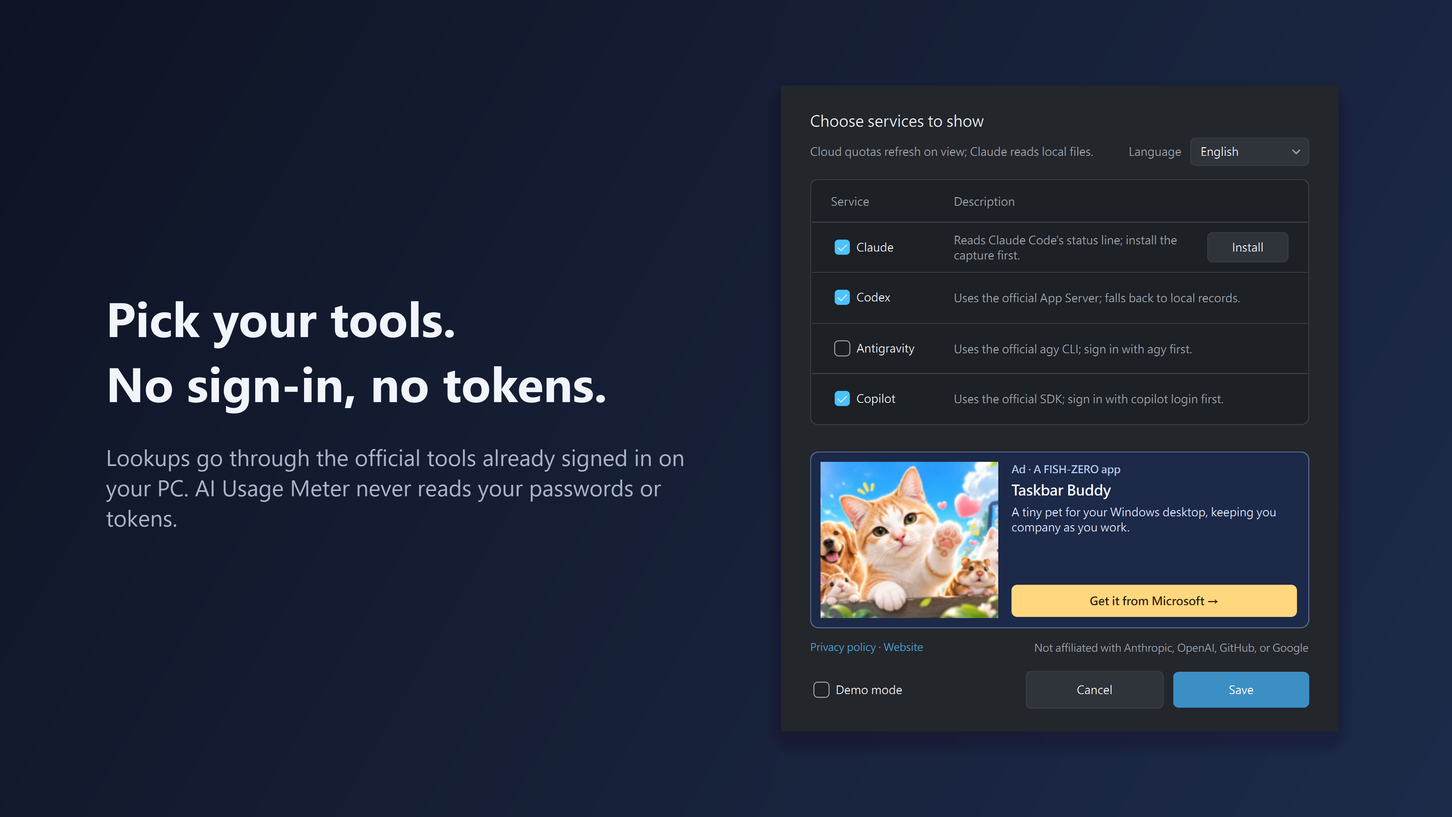
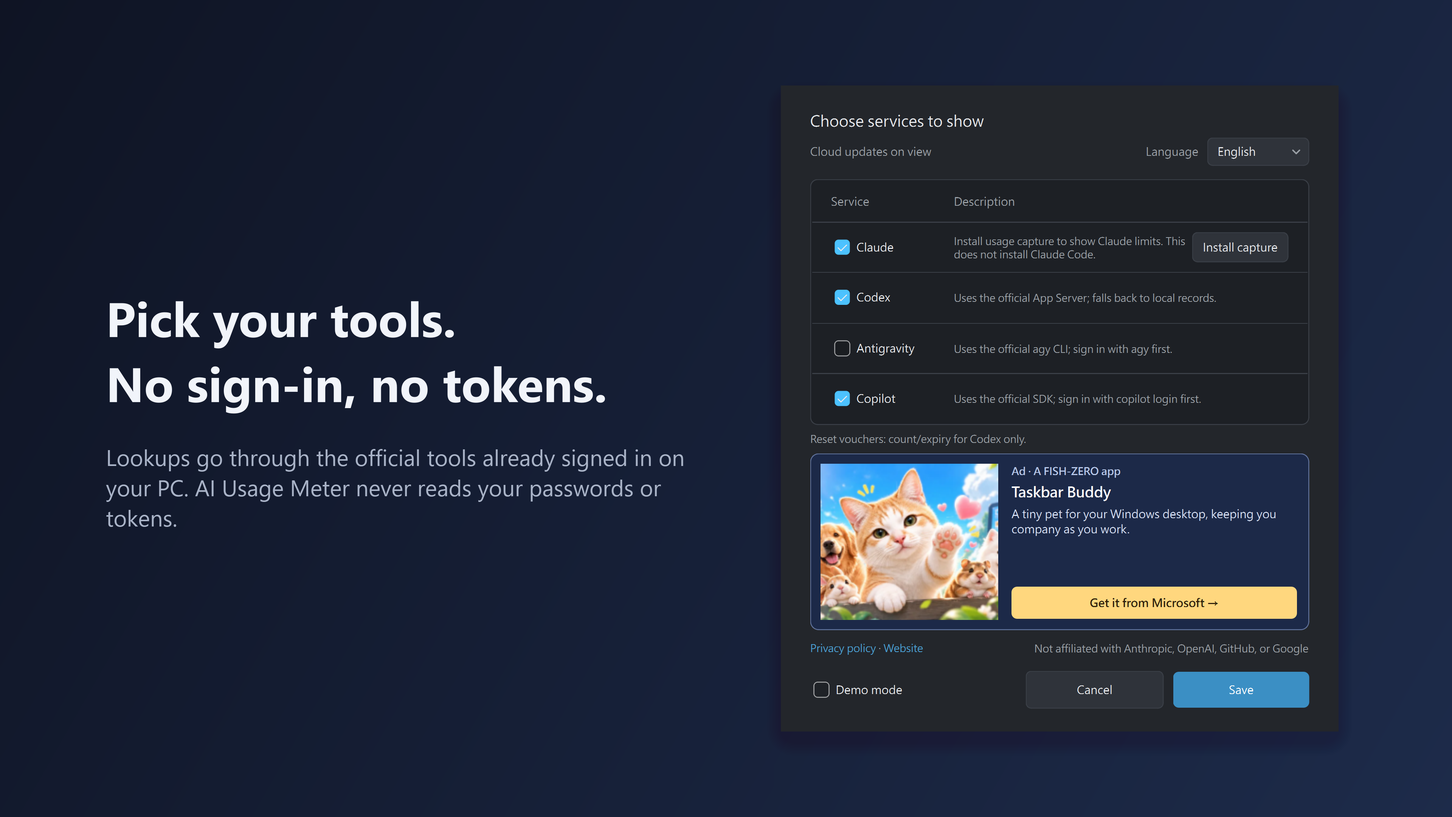
文件：0.1.2 五語商店清單、截圖與 Submission 3 狀態

diff --git a/docs/store-listing-0.1.2.md b/docs/store-listing-0.1.2.md
@@ -1,0 +1,250 @@
+# AI Usage Meter 0.1.2.0 商店清單文案
+
+供 Microsoft Partner Center 更新提交使用。套件 `AiUsageMeter-0.1.2.0-x64.msix` 宣告 `zh-TW`、`en`、`ja`、`de`、`zh-CN`。各語言產品名稱都選 **AI Usage Meter**，簡短標題留白。說明欄請貼純文字，不貼本檔的 Markdown 標題或項目符號。產品功能在 Partner Center 逐條新增，不要輸入序號。著作權各語言均填 `© 2026 Fish-Zero`。
+
+Microsoft 的 MSIX 清單規則：說明必填、至少一張截圖；「此版本的新增功能」最多 1,500 字元；產品功能最多 20 條、每條最多 200 字元；簡短描述最多 1,000 字元，建議前 270 字元內講完。各套件語言可分別建立清單，也可匯出／匯入 CSV。參考：[Microsoft Learn：編輯 MSIX 商店清單](https://learn.microsoft.com/en-us/windows/apps/publish/publish-your-app/msix/add-and-edit-store-listing-info)。
+
+五種語言各有 3 張桌面截圖，在 `docs/store/shots/<語言>-1.png` 到 `-3.png`；第 3 張可看到新版設定。商店圖示在 `docs/store/logo-300.png`。截圖由 `packaging/store_shots.py` 使用真正的卡片與設定元件、示範資料產生。隱私權政策仍使用產品屬性中的 `https://fish-zero.com/aiusagemeter-privacy`。審核人員測試說明沿用 [store-listing.md](store-listing.md) 第 6 節；其中已列出五種語言。
+
+## English (en)
+
+**Short description**
+
+See your AI coding tools' remaining usage from the Windows system tray. Hover for each limit's reset time and, for Codex, available reset credits and the nearest known expiry. No separate account or sign-in tokens needed.
+
+**Description**
+
+AI Usage Meter keeps the usage limits of your AI coding tools one hover away. Hover over its Windows system tray icon to see the percentage left, a progress bar, and the time until each limit resets.
+
+Supported tools: Claude Code, Codex, Antigravity CLI, and GitHub Copilot. Claude Code and Codex are enabled by default. Install and sign in to each tool you want to track on the same PC.
+
+If Codex provides reset-credit details, the card shows how many credits are available and the nearest known expiration date. Reset-credit details currently work with Codex only.
+
+When a limit falls below 10%, the app sends one Windows notification per reset period. Old or unavailable numbers are shown in grey with their age. The tray icon's neon ring slowly rotates and pauses when the screen is locked or off, battery saver is on, or Windows animations are disabled. The app also tells you when a new version is available in the Microsoft Store.
+
+AI Usage Meter does not read or store passwords or sign-in tokens. It has no server of its own, analytics, or third-party ads. In the background it reads local usage records; when you open the card, it asks the official tools already signed in on your PC for updated numbers. The Settings window contains a small banner for another app from the same developer.
+
+Settings offers Traditional Chinese, English, Japanese, German, and Simplified Chinese. The Claude Code “Install capture” and “Remove capture” buttons manage usage capture; they do not install or remove Claude Code. The developer's promoted app supports English and Traditional Chinese, so its banner appears in English in the other interface languages.
+
+On Windows 11, the tray icon may initially be under the hidden icons arrow (^). Drag it onto the taskbar for quick access.
+
+AI Usage Meter is an independent app and is not affiliated with Anthropic, OpenAI, GitHub, or Google. Product names belong to their respective owners.
+
+**What's new in this version**
+
+- Added Japanese, German, and Simplified Chinese interface options, alongside Traditional Chinese and English.
+- The Codex card now shows available reset credits and the nearest known expiry when Codex provides them. Reset-credit details currently support Codex only.
+- Settings now makes clear that Claude's install and remove buttons manage usage capture, not Claude Code itself.
+- The developer's app banner appears in English when its app does not support the selected interface language.
+
+**Product features**
+
+1. Hover over the system tray icon to see usage limits at a glance
+2. Percentage left, progress bar, and reset countdown for each limit
+3. Supports Claude Code, Codex, Antigravity CLI, and GitHub Copilot
+4. Shows Codex reset-credit count and nearest known expiry
+5. Never reads or stores passwords or sign-in tokens
+6. Uses each tool's official interface and your existing sign-in
+7. One alert below 10% per reset period
+8. Grey, time-stamped sections for old or unavailable numbers
+9. No server, analytics, third-party ads, or separate account
+10. Animated tray ring that pauses when the screen is locked or off
+11. Notification when a Microsoft Store update is available
+12. Traditional Chinese, English, Japanese, German, and Simplified Chinese interface
+
+**Search terms**: `AI usage` / `usage limit` / `rate limit` / `AI quota` / `system tray` / `developer tools` / `coding assistant`
+
+## 繁體中文 (zh-TW)
+
+**簡短描述**
+
+在 Windows 系統匣查看 AI 程式開發工具的剩餘用量與重置時間。滑鼠移到圖示上，還能查看 Codex 重置券的可用張數與最近已知的到期日。不需另建帳號，也不讀取登入權杖。
+
+**說明**
+
+AI Usage Meter 讓 AI 程式開發工具的用量，滑鼠移過去就看得到。將滑鼠移到 Windows 系統匣圖示上，每項額度的剩餘百分比、進度條與下次重置倒數會顯示在同一張卡片上。
+
+支援 Claude Code、Codex、Antigravity CLI 和 GitHub Copilot。預設啟用 Claude Code 與 Codex；你需要先在同一台電腦安裝並登入想追蹤的工具。
+
+如果 Codex 提供重置券資料，卡片會顯示可用張數與最近已知的到期日。重置券資訊目前僅支援 Codex。
+
+額度剩不到 10% 時，每個重置週期只會收到一次 Windows 通知。過時或無法取得的數字會變灰並標示資料時間。系統匣圖示的霓虹外圈會慢慢旋轉，鎖定畫面、螢幕關閉、省電模式或關閉 Windows 動畫效果時會自動停下。Microsoft Store 有新版本時，App 也會提醒你。
+
+AI Usage Meter 不讀取、不保存密碼或登入權杖，沒有自己的伺服器、分析追蹤或第三方廣告。平常在背景只讀本機用量紀錄；打開卡片時才請已登入的官方工具查詢較新的數字。設定視窗底部有一個推廣同一位開發者另一款 App 的小橫幅。
+
+介面提供繁體中文、英文、日文、德文與簡體中文。Claude Code 的「安裝擷取」與「移除擷取」只管理用量擷取，不會安裝或移除 Claude Code。被推廣的 App 目前只支援英文與繁體中文，因此選擇其他介面語言時，該橫幅會顯示英文。
+
+Windows 11 可能先把新圖示放在隱藏圖示區（^）。將圖示拖到工作列，就能隨時查看。
+
+AI Usage Meter 是獨立開發的 App，與 Anthropic、OpenAI、GitHub、Google 沒有隸屬或合作關係。各產品名稱屬於其權利人。
+
+**此版本的新增功能**
+
+- 新增日文、德文與簡體中文介面，並保留繁體中文與英文。
+- Codex 卡片新增重置券可用張數，以及有提供時最近已知的到期日；目前僅支援 Codex。
+- 設定中說明 Claude 的安裝／移除按鈕管理的是用量擷取，不會安裝或移除 Claude Code。
+- 被推廣的 App 不支援所選介面語言時，推廣橫幅顯示英文。
+
+**產品功能**
+
+1. 滑鼠移到系統匣圖示上，所有額度一次看完
+2. 每項額度都有剩餘百分比、進度條與重置倒數
+3. 支援 Claude Code、Codex、Antigravity CLI、GitHub Copilot
+4. 顯示 Codex 重置券張數與最近已知的到期日
+5. 不讀取、不保存密碼或登入權杖
+6. 使用各工具的官方介面與原本的登入查詢
+7. 額度剩不到 10% 時，每個重置週期提醒一次
+8. 過時或無法取得的資料會變灰並標示時間
+9. 沒有伺服器、分析追蹤、第三方廣告或額外帳號
+10. 系統匣動畫在鎖定畫面或螢幕關閉時自動停下
+11. Microsoft Store 有新版時通知你
+12. 繁體中文、英文、日文、德文與簡體中文介面
+
+**搜尋字詞**：`AI 用量`／`用量限制`／`額度`／`系統匣`／`開發人員工具`／`AI usage`／`usage limit`
+
+## 日本語 (ja)
+
+**短い説明**
+
+Windows の通知領域から AI コーディングツールの利用枠を確認。残量、リセットまでの時間、Codex のリセットクレジット枚数と直近の有効期限を表示します。
+
+**説明**
+
+AI Usage Meter は、AI コーディングツールの利用枠を Windows の通知領域で確認できるアプリです。アイコンにマウスを合わせると、各利用枠の残量、進捗バー、次のリセットまでの時間が表示されます。
+
+対応ツールは Claude Code、Codex、Antigravity CLI、GitHub Copilot です。Claude Code と Codex は初期状態で有効です。利用するツールは同じ PC にインストールしてサインインしてください。
+
+Codex のリセットクレジットが取得できる場合は、利用可能な枚数と、確認できた中で最も近い有効期限も表示します。この表示は現在 Codex のみに対応しています。
+
+残量が 10% 未満になると、リセット期間ごとに 1 回だけ Windows 通知を送ります。取得に失敗した情報や古い情報は、更新からの経過時間とともに灰色で示します。
+
+パスワードやサインイントークンの読み取り・保存は行いません。アプリ独自のサーバー、アクセス解析、サードパーティー広告はありません。バックグラウンドではローカルの利用記録を参照し、カードを開いたときに、サインイン済みの公式ツールへ新しい情報を問い合わせます。
+
+設定画面の Claude Code の「取得を導入／取得を削除」は、利用情報を保存するステータスライン連携を設定・解除する操作です。Claude Code 本体をインストールまたはアンインストールする操作ではありません。
+
+表示言語は繁体字中国語、英語、日本語、ドイツ語、簡体字中国語に対応しています。設定画面には、開発者の別アプリを紹介する小さなバナーがあります。紹介先のアプリが日本語に対応していないため、バナーは英語で表示されます。
+
+Windows 11 では、通知領域のアイコンが最初は隠しアイコン（^）に入ることがあります。
+
+AI Usage Meter は独立したアプリで、Anthropic、OpenAI、GitHub、Google と提携していません。
+
+**このバージョンの新機能**
+
+- 日本語、ドイツ語、簡体字中国語の UI を追加しました。表示言語は設定から選択できます。
+- Codex のリセットクレジットの利用可能枚数と、確認できた中で最も近い有効期限を通知領域のカードに表示します。現在は Codex のみに対応しています。
+- Claude Code のボタンが取得機能の設定を指すことを明確にしました。
+- 開発者の別アプリを紹介するバナーは、日本語表示時には英語で表示します。
+
+**製品の特長**
+
+1. 通知領域のアイコンにマウスを合わせて、利用枠をまとめて確認
+2. 利用枠ごとの残量、進捗バー、リセットまでの時間を表示
+3. Claude Code、Codex、Antigravity CLI、GitHub Copilot に対応
+4. Codex のリセットクレジット枚数と直近の有効期限を表示
+5. 残量が 10% 未満になると、リセット期間ごとに 1 回通知
+6. 古い情報や取得できない情報は、経過時間とともに灰色で表示
+7. パスワードやサインイントークンを読み取り・保存しない
+8. 独自サーバー、アクセス解析、別途のアカウント登録なし
+9. 画面のロック時や省電力時に停止する通知領域アイコンのアニメーション
+10. Microsoft Store の更新が利用可能になると通知
+11. Windows の起動時に自動起動（任意）
+12. 繁体字中国語、英語、日本語、ドイツ語、簡体字中国語の UI
+
+**検索語**：`AI 使用量`／`利用制限`／`AI クォータ`／`通知領域`／`開発ツール`／`コーディング支援`／`使用量管理`
+
+## Deutsch (de)
+
+**Kurzbeschreibung**
+
+Behalte die Nutzungslimits deiner KI-Codingtools direkt im Windows-Infobereich im Blick. Beim Zeigen auf das Symbol siehst du Restkontingent, Rücksetzzeit und verfügbare Codex-Rücksetzgutschriften. Ohne eigenes Konto oder Analyse-Tracking.
+
+**Beschreibung**
+
+AI Usage Meter zeigt dir die Nutzungslimits deiner KI-Codingtools im Windows-Infobereich. Zeige auf das Symbol, um für jedes Limit das verbleibende Kontingent, einen Fortschrittsbalken und die Zeit bis zur Rücksetzung zu sehen.
+
+Unterstützte Tools: Claude Code, Codex, Antigravity CLI und GitHub Copilot. Claude Code und Codex sind standardmäßig aktiviert; die anderen Tools kannst du in den Einstellungen einschalten. Die jeweiligen Tools müssen auf deinem PC installiert und angemeldet sein.
+
+Wenn Codex diese Angaben bereitstellt, zeigt die Infokarte, wie viele Rücksetzgutschriften verfügbar sind und wann die nächste bekannte Gutschrift abläuft. Diese Anzeige wird derzeit nur für Codex unterstützt.
+
+Fällt ein Limit unter 10 %, erhältst du pro Rücksetzzeitraum eine Windows-Benachrichtigung. Veraltete oder nicht verfügbare Werte sind entsprechend gekennzeichnet. Der Leuchtring des Symbols pausiert, wenn der Bildschirm gesperrt oder ausgeschaltet ist, beim Energiesparen oder wenn Windows-Animationen deaktiviert sind. Die App informiert dich auch, wenn im Microsoft Store eine neue Version verfügbar ist.
+
+Die App liest und speichert keine Passwörter oder Anmeldetoken. Sie nutzt vorhandene lokale Nutzungsdaten und fragt beim Öffnen der Infokarte die bereits angemeldeten offiziellen Tools ab. Sie hat keinen eigenen Server, kein Analyse-Tracking und keine Anzeigen von Drittanbietern. In den Einstellungen erscheint lediglich ein Hinweis auf eine weitere App desselben Entwicklers.
+
+Wähle zwischen Deutsch, Japanisch, vereinfachtem Chinesisch, traditionellem Chinesisch und Englisch. Die Claude-Schaltflächen installieren bzw. entfernen nur die Erfassung der Nutzungsdaten, nicht Claude Code selbst. Der Hinweis auf die andere App ist auf Deutsch, Japanisch und vereinfachtem Chinesisch auf Englisch verfügbar.
+
+Unter Windows 11 erscheint ein neues Symbol möglicherweise zunächst im ausgeblendeten Bereich (^). Ziehe es auf die Taskleiste, um die Infokarte schnell zu öffnen.
+
+AI Usage Meter ist eine unabhängige App und steht in keiner Verbindung zu Anthropic, OpenAI, GitHub oder Google. Die Produktnamen gehören ihren jeweiligen Inhabern.
+
+**Neu in Version 0.1.2.0**
+
+- Codex: Verfügbare Rücksetzgutschriften und der nächste bekannte Ablauf erscheinen jetzt direkt in der Infokarte.
+- Neue Oberflächensprachen: Deutsch, Japanisch und vereinfachtes Chinesisch. Englisch und traditionelles Chinesisch bleiben verfügbar.
+- Die Claude-Schaltflächen erklären nun deutlicher, dass sie die Erfassung der Nutzungsdaten installieren oder entfernen.
+- Die Einstellungen weisen darauf hin, dass Rücksetzgutschriften derzeit nur für Codex angezeigt werden.
+- Der Hinweis auf eine weitere App desselben Entwicklers erscheint in den neuen Sprachen auf Englisch.
+
+**Produktmerkmale**
+
+1. Alle Nutzungslimits beim Zeigen auf das Symbol im Windows-Infobereich sehen
+2. Restkontingent, Fortschrittsbalken und Countdown bis zur Rücksetzung
+3. Unterstützt Claude Code, Codex, Antigravity CLI und GitHub Copilot
+4. Anzahl verfügbarer Codex-Rücksetzgutschriften und nächster bekannter Ablauf
+5. Benachrichtigung bei weniger als 10 % Restkontingent
+6. Veraltete Werte werden mit Zeitangabe gekennzeichnet
+7. Liest und speichert keine Passwörter oder Anmeldetoken
+8. Kein eigener Server, kein Analyse-Tracking und kein zusätzliches Konto
+9. Animierter Leuchtring, der bei gesperrtem Bildschirm oder Energiesparen pausiert
+10. Benachrichtigt dich über neue Versionen im Microsoft Store
+11. Optionaler Start mit Windows
+12. Oberfläche auf Deutsch, Englisch, Japanisch sowie traditionellem und vereinfachtem Chinesisch
+
+**Suchbegriffe**: `KI-Nutzung` / `Nutzungslimit` / `KI-Kontingent` / `Ratenlimit` / `Infobereich` / `Entwicklerwerkzeuge` / `Programmierassistent`
+
+## 简体中文 (zh-CN)
+
+**简短说明**
+
+在 Windows 系统托盘查看 AI 编程工具的剩余用量与重置时间。Codex 重置券可显示剩余张数及最近已知的到期日。无需另建账号，不读取或保存登录令牌。
+
+**完整说明**
+
+AI Usage Meter 让 AI 编程工具的用量限制始终近在眼前。将鼠标悬停在 Windows 系统托盘图标上，即可查看各项额度的剩余百分比、进度条和重置倒计时。
+
+支持 Claude Code、Codex、Antigravity CLI 和 GitHub Copilot。Claude Code 与 Codex 默认启用，其他工具可在设置中开启。相应工具需已安装并在这台电脑上登录。
+
+如果 Codex 提供重置券数据，卡片还会显示可用张数及最近已知的到期日。重置券详情目前仅支持 Codex。
+
+某项额度低于 10% 时，每个重置周期只提醒一次。查询失败或数据过期时，相应区块会变灰，并显示数据时间。托盘图标的光环会缓慢旋转；锁屏、关闭屏幕、启用节电模式或关闭 Windows 动画效果时会暂停。发现 Microsoft Store 新版本时，应用也会通知你。
+
+应用不会读取或保存密码、登录令牌。后台读取本地用量记录，打开用量卡片时才调用本机已登录工具的官方接口查询新数据。应用没有自有服务器、分析追踪、第三方广告或专用账号，不会把数据发送给开发者。设置页面底部有一个推广同一开发者其他应用的小横幅。
+
+提供繁体中文、英语、日语、德语和简体中文界面。Claude 设置中的“安装采集／移除采集”仅管理用量采集，并非安装或卸载 Claude Code。被推广的应用目前仅支持英语和繁体中文，因此在其他界面语言下，横幅显示英文。
+
+Windows 11 可能将新托盘图标放在隐藏图标区域（^）。可将图标拖到任务栏，随时悬停查看。
+
+AI Usage Meter 是独立应用，与 Anthropic、OpenAI、GitHub 或 Google 没有关联。相关产品名称归各自所有者所有。
+
+**此版本的新内容**
+
+- 新增日语、德语及简体中文界面；设置中可从五种语言直接选择。
+- Codex 用量卡片新增重置券可用张数与最近已知的到期日；目前仅支持 Codex。
+- 设置页面说明 Claude 的“安装采集／移除采集”按钮仅管理用量采集，并非安装或卸载 Claude Code。
+- 开发者其他应用的横幅在不支持所选语言时显示英文。
+
+**产品功能**
+
+1. 悬停系统托盘图标，即可查看各项用量限制
+2. 显示剩余百分比、进度条与重置倒计时
+3. 查看 Codex 重置券张数和最近已知的到期日
+4. 支持 Claude Code、Codex、Antigravity CLI 和 GitHub Copilot
+5. 不读取或保存密码及登录令牌
+6. 使用本机现有登录状态和工具官方接口
+7. 额度低于 10% 时，每个重置周期提醒一次
+8. 过期数据变灰，并标明数据时间
+9. 无自有服务器、分析追踪、第三方广告或专用账号
+10. 托盘光环会在锁屏、息屏或节电时暂停动画
+11. 新版本上架后通知，并可前往 Microsoft Store
+12. 支持繁中、英语、日语、德语及简体中文界面
+
+**搜索词**：`AI 用量`／`用量限制`／`速率限制`／`AI 额度`／`系统托盘`／`开发工具`／`编程助手`

diff --git a/CLAUDE.md b/CLAUDE.md
@@ -45,7 +45,7 @@ powershell -ExecutionPolicy Bypass -File packaging\build.ps1  # 打包 → dist\
 - 狀態值比 §2 多一個 `disabled`（歷史相容狀態）。`ProviderState` 另有 `source` / `error` / `raw`（raw 只給 probe）。
 - 檔案來源規則（`model.apply_file_freshness`）：`resets_at` 已過的視窗 → `used_pct=0`、`resets_at=None`、記進 `detail.rolled_over`；資料 > 15 分鐘或有歸零 → `stale`。
 - **P5（2026-09-25）加 Antigravity CLI、GitHub Copilot**，預設不啟用（細節見 §3）。Copilot 透過官方 Python SDK 的 `account.getQuota`，使用 Copilot CLI 登入；Antigravity 執行官方 `agy -p /usage --output-format json`，由 agy 自己處理登入。額度不是固定長度的視窗 → Copilot 用 `make_window(label=...)`；Antigravity 依 agy 的群組顯示。卡片：Copilot unlimited 顯示「無上限：…」；全部沒勾選時顯示「沒有啟用任何服務…」；Antigravity 未登入提示先用 agy 登入。
-- **介面中／英切換（2026-09-25，業主要求）**：`i18n.py` 集中所有畫面文字（`STRINGS = {key: (繁中, English)}`、`tr(key)`）。設定視窗左下角「語言」下拉：跟隨系統／繁體中文／English，存 `config.json` 的 `language`（`auto`／`zh-TW`／`en`，預設 auto：Windows 介面語言是中文 → 繁中，其他 → English）。在下拉切換會**整個設定視窗立刻換語言預覽**（`tr(key, lang)`，不動全域），按儲存才套用到選單、卡片、通知、tooltip；只換語言不重抓。⚠ **視窗 label 在資料裡一律維持中文**（週／月／進階／補全…），只在顯示時 `i18n.window_label` 翻——通知去重鍵含 label，切語言不能讓同一週期再通知一次。provider 的錯誤細節（`state.error`）是除錯用、不翻。`i18n` 模組預設繁中、只有 `run()` 依設定切換，所以既有測試不受本機語言影響；改英文的測試要 `addCleanup(i18n.set_language, "zh-TW")`。QMessageBox 的是／否按鈕字自己給（打包版刪了 Qt 翻譯檔）。卡片進度條改成 60–110px 可縮（英文 “Completions” 會把第一欄撐寬，原本固定 110 會讓 % 壓到條上）。
+- **介面中／英切換（2026-09-25，業主要求）**：`i18n.py` 集中所有畫面文字（`STRINGS = {key: (繁中, English)}`、`tr(key)`）。設定視窗左下角「語言」下拉，存 `config.json` 的 `language`（0.1.2 起五種語言、沒有「跟隨系統」，舊的 `auto` 讀取時依系統語言轉換，見下方 0.1.2）。在下拉切換會**整個設定視窗立刻換語言預覽**（`tr(key, lang)`，不動全域），按儲存才套用到選單、卡片、通知、tooltip；只換語言不重抓。⚠ **視窗 label 在資料裡一律維持中文**（週／月／進階／補全…），只在顯示時 `i18n.window_label` 翻——通知去重鍵含 label，切語言不能讓同一週期再通知一次。provider 的錯誤細節（`state.error`）是除錯用、不翻。`i18n` 模組預設繁中、只有 `run()` 依設定切換，所以既有測試不受本機語言影響；改英文的測試要 `addCleanup(i18n.set_language, "zh-TW")`。QMessageBox 的是／否按鈕字自己給（打包版刪了 Qt 翻譯檔）。卡片進度條改成 60–110px 可縮（英文 “Completions” 會把第一欄撐寬，原本固定 110 會讓 % 壓到條上）。
 
 - **Claude 狀態列擷取安裝器（2026-09-26，`claude_hook.py`）**：Claude 的資料原本只靠業主自己寫的 Node hook（`D:\FISH\tools\claude-monitor\statusline-usage.js`），一般使用者沒有 → Store 版 Claude 會永遠沒資料。設定視窗 Claude 那列加「安裝／移除」按鈕，**按下立刻執行、先跳確認**（改的是 Claude Code 的 `~/.claude/settings.json`，不是我們的設定）。做法：
   - hook 是 PowerShell 腳本 `~/.claude/ai-quota-tray/statusline.ps1`（不用 Node：官方安裝程式裝的 Claude Code 不一定有 Node），把 stdin 的 `rate_limits` 存成 `~/.claude/usage-cache.json`（跟 Node 版同格式），再**照常執行使用者原本的狀態列**、印出它的輸出。原本的 statusLine 存在 `original-statusline.json`（移除時原樣還原，padding／refreshInterval 等欄位保留），指令本身另存 `original.sh`／`original.ps1`：環境有 `MSYSTEM`（Claude Code 經 Git Bash 呼叫）就用 bash 跑 .sh，否則用 PowerShell 跑 .ps1——跟官方文件「有 Git Bash 用 Git Bash，沒有用 PowerShell」一致。
@@ -77,9 +77,16 @@ powershell -ExecutionPolicy Bypass -File packaging\build.ps1  # 打包 → dist\
 - `tests/test_anim_update.py`（畫格只動外圈、停轉條件、Store 檢查、通知只一次且點了開設定、設定新元件）；unittest 156 過。
 - 下一版：**xAI（Grok）** 看回信（見下方 📨）。
 
+### 0.1.2（2026-09-27，Codex 做、Claude 接手收尾）
+
+- **五種介面語言**：繁中、English、日本語、Deutsch、简体中文。翻譯在 `ai_quota_tray/locales/{ja,de,zh_cn}.py`（`i18n.TRANSLATIONS`），`STRINGS` 仍是 (繁中, English) 兩欄。⚠ **語言下拉拿掉了「跟隨系統」**：舊設定的 `auto` 在讀取時（`config.load_language`／`i18n.resolve`）依 Windows 介面語言轉成五種之一（zh-CN／SG／Hans → 簡中、其他 zh → 繁中、ja、de，其餘 → English）。視窗 label 翻譯改成 `i18n.WINDOW_LABELS[lang]`。
+- **Codex 重置券**：`codex app-server` 回傳的 `rateLimitResetCredits`（`availableCount`、`credits[].expiresAt`／`status`）→ `detail.reset_credits_count`／`reset_credits_next_expiry`（只取 available 且未過期的最早一張），卡片 Codex 區塊多兩行；設定視窗註明「目前僅支援 Codex」。背景讀本機 rollout 沒有這兩個欄位，`TrayApp._on_fetched_local` 會把手上的券資訊帶過去，不讓它消失。
+- Claude 按鈕改成「安裝擷取／移除擷取」並說明不會裝／移除 Claude Code。自家推廣橫幅只有中英文，其他語言顯示英文。隱私權政策補重置券（fish-zero-web `5c817c0`，已 push、線上看得到）。
+- MSIX 宣告五種 `Resource Language`（`pack_msix.py` 的 `PKG_STRINGS` 補 ja／de／zh-CN），`store_shots.py` 五語各 3 張。商店五語文案在 `docs/store-listing-0.1.2.md`。unittest 165 過。⚠ 0.1.2.0 **沒有跑 WACK**（最後一次是 0.1.1.0）。
+
 **下次開工：MSIX 上線版**（業主 2026-09-25 收工時說下次再處理；細節見 §5）
 
-> ⏸ **2026-09-26 的狀態**：v0.1.0.0 已上架（Submission 1，不到一小時就過）。0.1.1.0 已送 **Submission 2** 認證（業主 2026-09-26 送出；套件 `AiUsageMeter-0.1.1.0-x64.msix`、WACK PASS 16:02，明細 `docs/store-listing.md` §0.6），程式與文件已 push。下一步：等認證結果（退件就照原因修）；上架後同事可以裝。下一版：xAI（Grok）看回信。
+> ⏸ **2026-09-27 的狀態**：0.1.1.0（Submission 2）已上架。0.1.2.0 的 **Submission 3** 在 Partner Center 已全部填好：套件 `AiUsageMeter-0.1.2.0-x64.msix` Validated、五語清單都 Complete（各 3 張截圖＋300×300 標誌；英文與繁中的第 3 張換成新版設定畫面）、「其他測試資訊」的認證注意事項改成五語版。只差業主按「提交以進行認證」。💡 Partner Center 清單頁的截圖本身就是「更新圖片」按鈕、旁邊有自己的 file input，替換單張可以原位上傳、不用刪掉重排。下一版：xAI（Grok）看回信。
 
 > 📨 **xAI（Grok）詢問中**：業主 2026-09-26 12:44 寄信給 `sales@x.ai`，問第三方 App 能不能讀 Grok Build CLI 的本機 token、呼叫 `cli-chat-proxy.grok.com/v1/billing` 等端點來顯示使用者自己的用量，或有沒有官方介面可用。業主決定：**回覆 OK 才在下一版加回來**。⚠ 信裡附的 `blob/main/.../providers/grok.py` 已經 404（P5 `236e126` 刪掉了）；對方要看程式碼時改給固定版本 `https://github.com/Fishforgithub/ai-quota-tray/blob/7376facef447ea03969deed62bfe4aaf9a6a30f2/ai_quota_tray/providers/grok.py`（實測 200）。信裡的產品名是舊的 AI Quota Tray。🔴 **加回來不只是改程式**：隱私權政策、商店說明與功能（「不讀取、不保存登入權杖」）、runFullTrust 說明（「reads no tokens」）、認證注意事項、產品頁都寫死了「不碰 token」，Grok 若仍是讀 token 的做法，這些都要改成「Grok 例外、需使用者自行啟用」並重新送審；若 xAI 給的是官方 API／CLI 指令，就能維持「不碰 token」的說法。
 

diff --git a/docs/site/en/aiusagemeter-privacy.md b/docs/site/en/aiusagemeter-privacy.md
@@ -1,10 +1,10 @@
 ---
 title: AI Usage Meter Privacy Policy
 description: The privacy policy for AI Usage Meter, covering which local records it reads, which official tools it starts to look up your usage limits, and why it collects no personal data and has no server of its own.
-meta: Effective 26 September 2026 · Applies to AI Usage Meter for Windows
+meta: Effective 27 September 2026 · Applies to AI Usage Meter for Windows
 changefreq: yearly
 priority: "0.3"
-updated: 2026-09-26
+updated: 2026-09-27
 ---
 
 :::lead
@@ -56,13 +56,13 @@ In the background, the app only re-reads the local records from section 2 every 
 
 **Update check**: the version installed from the Microsoft Store asks the Microsoft Store service built into Windows whether a new version is available, about 30 seconds after it starts and every 6 hours after that. The check only asks about updates and sends no personal data or usage numbers. If there is a new version you get one notification; whether to update is up to you, in the Microsoft Store.
 
-These lookups are made directly between each official tool and its own service, and are covered by that service's own privacy policy. The app only receives the usage numbers (percentage used, reset time, plan name). It never receives or stores your account credentials.
+These lookups are made directly between each official tool and its own service, and are covered by that service's own privacy policy. The app only uses usage-related data (percentage used, reset time, plan name, and the available count and expiration times of Codex reset credits). It never receives or stores your account credentials. Codex reset-credit details come from the `codex app-server` usage response and are displayed locally. If the official tool does not provide an expiration time, the app marks it as unknown.
 
 **Other connections**: the bottom of the Settings window shows a banner marked "Ad" that promotes another app by the same developer. It is the only ad in the app; its image is built into the app rather than loaded from the internet, and no third-party advertising code is included. Only if you click it does your browser open its Microsoft Store page. The bottom of the Settings window also has "Privacy policy" and "Website" links, which likewise open pages on this website in your browser only when you click them.
 
 ## 4. Optional: Claude status line capture
 
-Claude Code doesn't write its usage limits to a file by itself, so the Claude row in Settings has an "Install" button. **Only after you press it and confirm** will the app:
+Claude Code doesn't write its usage limits to a file by itself, so the Claude row in Settings has an "Install capture" button. **Only after you press it and confirm** will the app:
 
 - place a small script in `%USERPROFILE%\.claude\ai-quota-tray\` and point the status line command in Claude Code's settings file (`%USERPROFILE%\.claude\settings.json`) to it. The settings file is backed up as `settings.json.ai-quota-tray.bak` first;
 - have that script save **only the usage fields** of the data Claude Code gives the status line into `usage-cache.json`, and then show your original status line as usual;

diff --git a/docs/site/zh-TW/aiusagemeter-privacy.md b/docs/site/zh-TW/aiusagemeter-privacy.md
@@ -1,10 +1,10 @@
 ---
 title: AI Usage Meter 隱私權政策
 description: AI Usage Meter 的隱私權政策，說明它讀取哪些本機紀錄、會啟動哪些官方工具查詢額度，以及為什麼它不收集個人資料、也沒有自己的伺服器。
-meta: 生效日 2026 年 9 月 26 日 · 適用於 Windows 版 AI Usage Meter
+meta: 生效日 2026 年 9 月 27 日 · 適用於 Windows 版 AI Usage Meter
 changefreq: yearly
 priority: "0.3"
-updated: 2026-09-26
+updated: 2026-09-27
 ---
 
 :::lead
@@ -53,13 +53,13 @@ AI Usage Meter 是獨立開發的第三方工具，與 Anthropic、OpenAI、GitH
 
 **檢查更新**：從 Microsoft Store 安裝的版本，會在啟動約 30 秒後、之後每 6 小時，透過 Windows 內建的 Microsoft Store 服務詢問「有沒有新版本」。這個查詢只問更新，不送出任何個人資料或額度數字；有新版時只會跳一則通知，要不要更新由你在 Microsoft Store 決定。
 
-這些查詢由各家官方工具直接與其服務連線，適用各服務自己的隱私權政策。本 App 只收到額度數字（已用百分比、重置時間、方案名稱），不會收到、也不會保存你的帳號憑證。
+這些查詢由各家官方工具直接與其服務連線，適用各服務自己的隱私權政策。本 App 只使用額度相關資料（已用百分比、重置時間、方案名稱，以及 Codex 重置券的可用張數與到期時間），不會收到、也不會保存你的帳號憑證。Codex 重置券資訊來自 `codex app-server` 的額度查詢結果，只在本機顯示；若官方工具沒有提供到期時間，App 會標示為未知。
 
 **其他連線**：設定視窗底部有一個標示為「廣告」的橫幅，推廣開發者自己的另一款 App。它是 App 裡唯一的廣告，圖片內建在 App 裡、不從網路載入，也不含任何第三方廣告程式；只有在你點它時，才會用瀏覽器開啟 Microsoft Store 的商品頁。設定視窗底部另有「隱私權政策」「官網」兩個連結，同樣只有在你點了之後，才會用瀏覽器開啟本網站的頁面。
 
 ## 4. 選用：Claude 狀態列擷取
 
-Claude Code 不會自己把額度寫進檔案，所以設定視窗的 Claude 那一列提供「安裝」按鈕。**只有在你按下並確認後**才會：
+Claude Code 不會自己把額度寫進檔案，所以設定視窗的 Claude 那一列提供「安裝擷取」按鈕。**只有在你按下並確認後**才會：
 
 - 在 `%USERPROFILE%\.claude\ai-quota-tray\` 放一支小程式，並把 Claude Code 設定檔（`%USERPROFILE%\.claude\settings.json`）的狀態列指令指向它。修改前會先備份成 `settings.json.ai-quota-tray.bak`；
 - 這支小程式每次收到 Claude Code 提供給狀態列的資料時，**只把其中的額度欄位**寫進 `usage-cache.json`，然後照常顯示你原本的狀態列；
